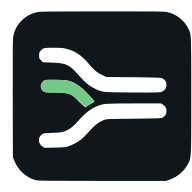
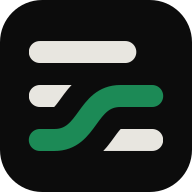
The product mark is drawn geometry now, in a green that survives every surface
Both logo files were potrace output — a `scale(0.1,-0.1)` flip over point
clouds, so no bar was the same height as its neighbour, the corner radii
drifted, and the accent ended in a diagonal slice where the tracer clipped it.
Redrawn on one grid: stroke 9, pitch 18 (gaps equal strokes), channel 27 —
exactly one row plus both its gaps, so it consumes a row and lands tangent to
its neighbours instead of clipping them.

The accent was #75c988, which is in no token and sits at ~2:1 on the light
ground. Its replacement had four contrast relationships to clear, not one: the
accent runs *alongside* the ink bars, so it must separate from the ground and
from the bars, in both themes. --funded fails that against the bars in both
(2.36 and 1.31); so does --accent purple (2.35). --brand #1c8a56 is the value
maximising the worst of the four and clears 3:1 everywhere, which lets it be
declared once rather than per-theme.

--accent was never the brand colour. It is outside the taxonomy comment's own
list, and half its call sites are debug-* rules.

ProductLogo is one inline SVG taking currentColor and --brand, replacing the
two hand-coloured files and their display:none swap. The channel is a mask
rather than an overpainted background, so the mark is transparent where the
channel runs and sits on any surface.

Optical sizes, each set by rasterising and looking rather than by rule: four
rows for the wide logo, three for the square marks (four needs a 36-unit climb
[…]

diff --git a/apps/web/src/components/ProductLogo.tsx b/apps/web/src/components/ProductLogo.tsx
@@ -1,9 +1,28 @@
+import { useId } from "react";
+
 type ProductLogoProps = {
   className?: string;
   decorative?: boolean;
 };
 
+/**
+ * The product mark: ledger rows with a channel cut through them, and the
+ * accent path riding in the channel.
+ *
+ * Drawn inline rather than loaded as two hand-coloured files so it inherits
+ * `currentColor` for the bars and `--brand` for the accent, and themes without
+ * a second asset. Geometry is stroke 9 on a pitch of 18, so gaps equal strokes;
+ * the channel is 27 — one row plus both its gaps — which is why it consumes a
+ * row cleanly instead of clipping into its neighbours.
+ *
+ * The channel is a mask, not an overpainted background colour, so the mark is
+ * transparent where the channel runs and sits on any surface.
+ */
 export function ProductLogo({ className, decorative = false }: ProductLogoProps) {
+  // Rendered more than once per page (mobile bar, sidebar), so the mask needs
+  // an id unique to the instance.
+  const maskId = useId();
+
   return (
     <span
       className={className ? `product-logo ${className}` : "product-logo"}
@@ -11,18 +30,39 @@ export function ProductLogo({ className, decorative = false }: ProductLogoProps)
       aria-label={decorative ? undefined : "Finance Planner"}
       aria-hidden={decorative ? true : undefined}
     >
-      <img
-        className="product-logo-image product-logo-image-light"
-        src="/brand/finance-planner-logo-light.svg"
-        alt=""
+      <svg
+        className="product-logo-mark"
+        viewBox="4.5 9.5 55 45"
         aria-hidden="true"
-      />
-      <img
-        className="product-logo-image product-logo-image-dark"
-        src="/brand/finance-planner-logo-dark.svg"
-        alt=""
-        aria-hidden="true"
-      />
+        focusable="false"
+      >
+        {/*
+          `white` and `black` here are mask luminance, not palette: they mean
+          "keep" and "cut", they can never be themed, and changing either
+          breaks the carve rather than restyling it. Hence keywords rather than
+          hexes — a colour literal in a component would be claiming something
+          this isn't.
+        */}
+        <mask id={maskId} maskUnits="userSpaceOnUse" x="4.5" y="9.5" width="55" height="45">
+          <rect x="4.5" y="9.5" width="55" height="45" fill="white" />
+          <path
+            d="M-6 50 H15 C29 50 28 32 42 32 H70"
+            stroke="black"
+            strokeWidth="27"
+            fill="none"
+            strokeLinecap="round"
+            strokeLinejoin="round"
+          />
+        </mask>
+        <g fill="none" strokeLinecap="round" strokeLinejoin="round">
+          <g mask={`url(#${maskId})`} stroke="currentColor" strokeWidth="9">
+            <path d="M9 14 H44" />
+            <path d="M9 32 H55" />
+            <path d="M9 50 H55" />
+          </g>
+          <path d="M9 50 H15 C29 50 28 32 42 32 H55" stroke="var(--brand)" strokeWidth="9" />
+        </g>
+      </svg>
     </span>
   );
 }

diff --git a/apps/web/src/styles.css b/apps/web/src/styles.css
@@ -75,6 +75,11 @@
  *   states     --funded (on track) / --needs-you (your move) / --alert (short).
  *   people     --member-1 / --member-2 / --member-shared.
  *   tags       --tag-1…--tag-6 + --tag-untagged, ranked biggest-first.
+ *   brand      --brand, the product mark's accent. Deliberately *not* a state:
+ *              the logo wears it whether the household is on track or short,
+ *              so it must not be confusable with --funded sitting beside it.
+ *              It is also the one colour with a single value in both themes —
+ *              see the note on it below.
  *
  * Translucent washes are `color-mix()` against a token, never a hand-mixed
  * `rgba()`: the second theme then needs no second set of them. Mixing with
@@ -135,6 +140,16 @@
   --alert-hover: #8c2c24;
   --link: #4c5fc4;
   --accent: #6d4ca8;
+
+  /* The product mark's accent. One value serves both themes: the mark's accent
+   * runs alongside its own ink bars, so it has four contrast relationships to
+   * clear, not one — ground and bars, light and dark. This green is the value
+   * that maximises the worst of the four, and clears 3:1 (the WCAG floor for a
+   * graphical object) on every surface in both themes:
+   *   light ground 4.24  light bars 3.49  dark ground 4.49  dark bars 3.49
+   * Because it is theme-independent it is declared once, here, and deliberately
+   * NOT repeated in the dark blocks — there is nothing to keep in sync. */
+  --brand: #1c8a56;
 
   --member-1: #4c5fc4;
   --member-2: #a0508b;
@@ -345,31 +360,19 @@ textarea:focus-visible {
   overflow-y: auto;
 }
 
+/* The mark is one inline SVG that takes its bars from `currentColor` and its
+ * accent from `--brand`, so it follows the theme with no second asset and no
+ * light/dark swap. `color` is set here rather than inherited: the mark must not
+ * depend on whichever container it happens to sit in. */
 .product-logo {
   display: grid;
+  color: var(--ink);
 }
-.product-logo-image {
+.product-logo-mark {
   grid-area: 1 / 1;
   width: 100%;
   height: 100%;
   object-fit: contain;
-}
-.product-logo-image-dark {
-  display: none;
-}
-:root[data-theme="dark"] .product-logo-image-light {
-  display: none;
-}
-:root[data-theme="dark"] .product-logo-image-dark {
-  display: block;
-}
-@media (prefers-color-scheme: dark) {
-  :root:not([data-theme]) .product-logo-image-light {
-    display: none;
-  }
-  :root:not([data-theme]) .product-logo-image-dark {
-    display: block;
-  }
 }
 .brand-lockup {
   display: flex;

diff --git a/apps/web/index.html b/apps/web/index.html
@@ -5,7 +5,13 @@
     <meta name="viewport" content="width=device-width, initial-scale=1.0" />
     <meta name="color-scheme" content="dark" />
     <meta name="theme-color" content="#0c0c0c" />
-    <link rel="icon" type="image/png" href="/brand/finance-planner-favicon.png" />
+    <!--
+      Two favicons, not one downscale: inside a tile the mark only holds two
+      rows at 16px and three from 32px up, so each size gets the drawing that
+      actually resolves at it.
+    -->
+    <link rel="icon" type="image/png" sizes="16x16" href="/brand/finance-planner-favicon-16.png" />
+    <link rel="icon" type="image/png" sizes="32x32" href="/brand/finance-planner-favicon-32.png" />
     <link rel="apple-touch-icon" href="/brand/finance-planner-apple-touch-icon.png" />
     <link rel="manifest" href="/manifest.webmanifest" />
     <title>Finance Planner</title>
